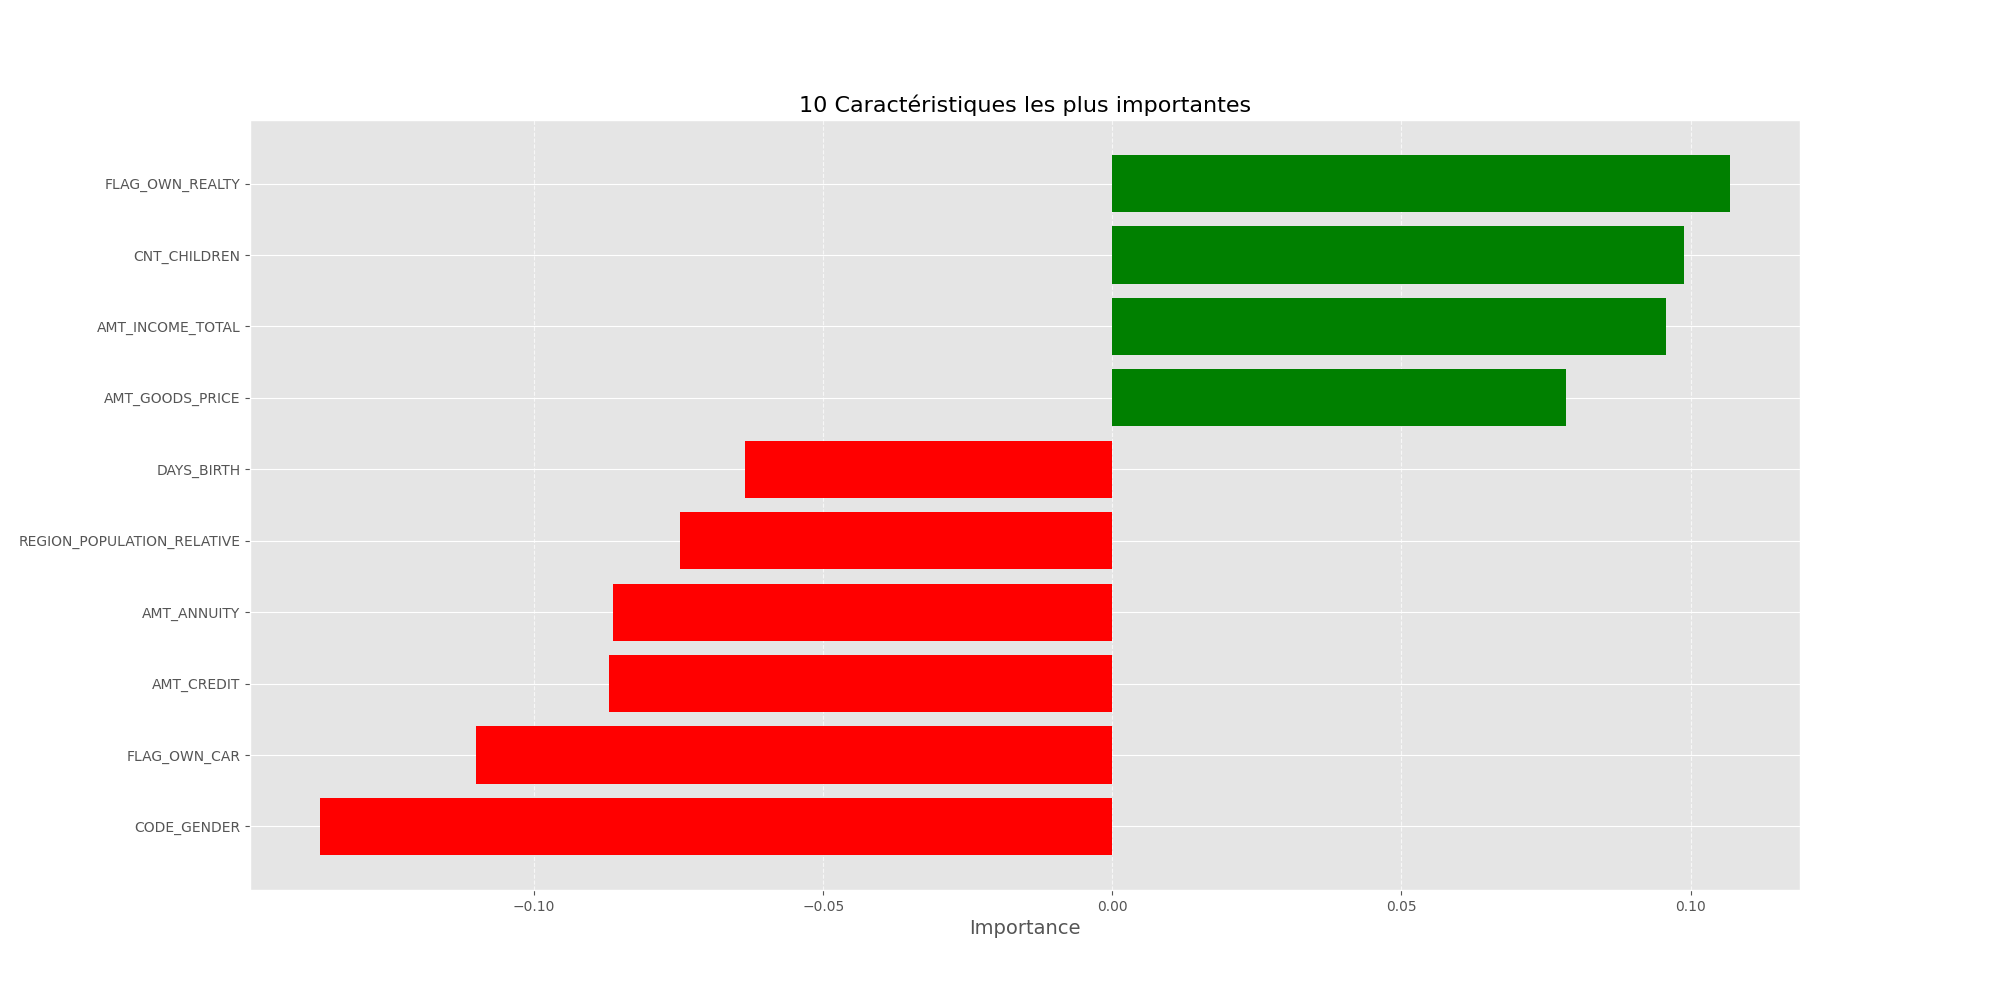
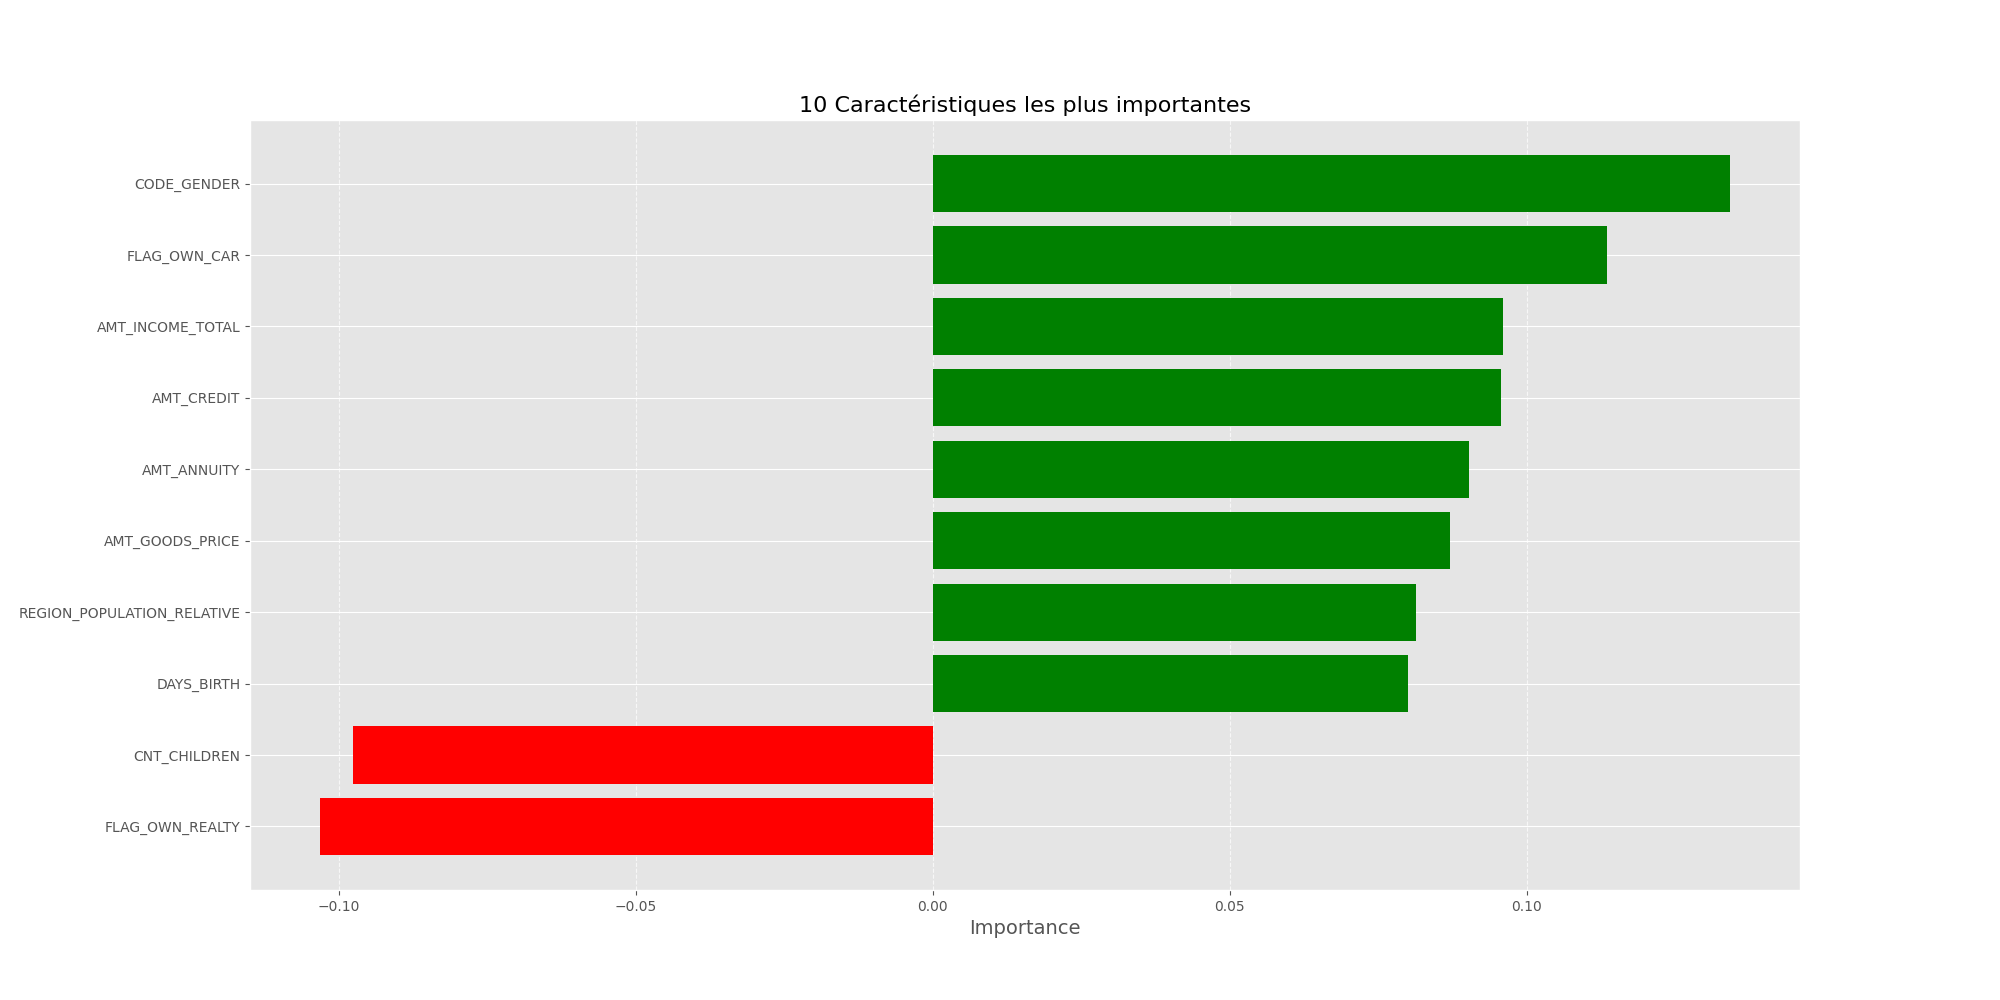
mise à jour

diff --git a/main.py b/main.py
@@ -30,7 +30,7 @@ model = mlflow.lightgbm.load_model(local_path)
 ## Activer les visualisations interactives de SHAP
 shap.initjs()
 # Création d'un explainer SHAP
-explainer = shap.TreeExplainer(model)
+#explainer = shap.TreeExplainer(model)
 
 ## Chemin d'accès
 folder = os.path.join(os.getcwd(), 'image')
@@ -102,10 +102,6 @@ def get_local_interpretation(id):
     )
     # Obtenir l'explication
     exp = explainer.explain_instance(data_row = client_data.values[0], predict_fn = model.predict_proba)
-
-    # Visualiser l'importance des fonctionnalités avec un graphique à barres horizontales
-    plt.style.use("ggplot")  # Utiliser le style ggplot
-    plt.figure(figsize=(20, 10))
     
     # Extraire les importances
     importances = exp.as_map()[1]  # Récupérer les importances des caractéristiques
@@ -115,6 +111,10 @@ def get_local_interpretation(id):
     sorted_indices = np.argsort([val[1] for val in importances])[-10:]  # Indices des 10 plus importantes
     top_importances = [importances[i] for i in sorted_indices]
     top_feature_names = [feature_names[i] for i in sorted_indices]
+
+    # Visualiser l'importance des fonctionnalités 
+    #plt.style.use("ggplot")  # Utiliser le style ggplot
+    plt.figure(figsize=(20, 10))
     
     # Création du graphique à barres horizontales
     plt.barh(range(10), [val[1] for val in top_importances],
@@ -125,10 +125,10 @@ def get_local_interpretation(id):
     plt.grid(axis='x', linestyle='--', alpha=0.7)  # Ajouter une grille
     
     # Sauvegarder l'image
-    plt.savefig(f'{folder}/local_interpretation_{id}.png')
+    plt.savefig(f'{folder}/local_interpretation_{id}.jpg', dpi = 300)
     plt.close()
 
-    return send_file(f'{folder}/local_interpretation_{id}.png', mimetype='image/png') 
+    return send_file(f'{folder}/local_interpretation_{id}.jpg', mimetype='image/jpg') 
 
 
 ## Faire l'interpretation Global du modèle
@@ -160,7 +160,7 @@ def get_global_interpretation():
     plt.barh(range(10), top_shap_values,
              color=[ "green" for val in top_shap_values])
     plt.yticks(range(10), top_feature_names)
-    plt.title("10 Caractéristiques les plus importantes (SHAP)", fontsize=16)
+    plt.title("10 Caractéristiques les plus importantes", fontsize=16)
     plt.xlabel("Importance (valeurs SHAP)", fontsize=14)
     plt.grid(axis='x', linestyle='--', alpha=0.7)  # Ajouter une grille
 
